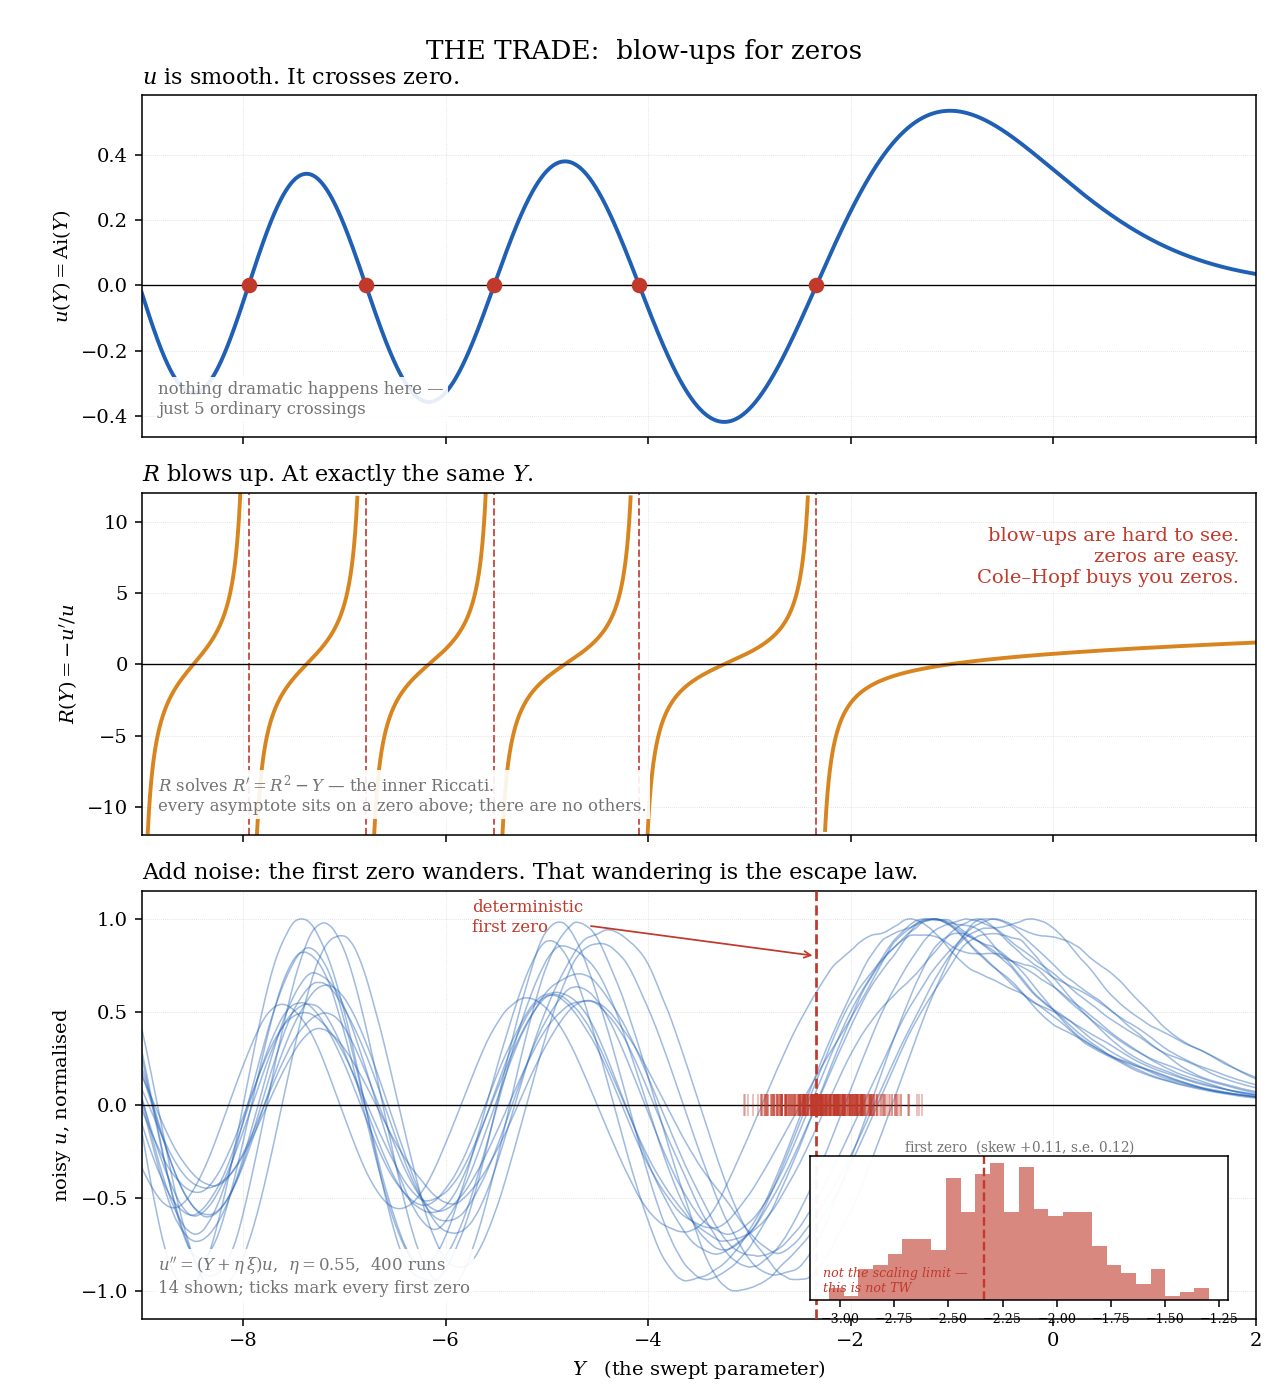
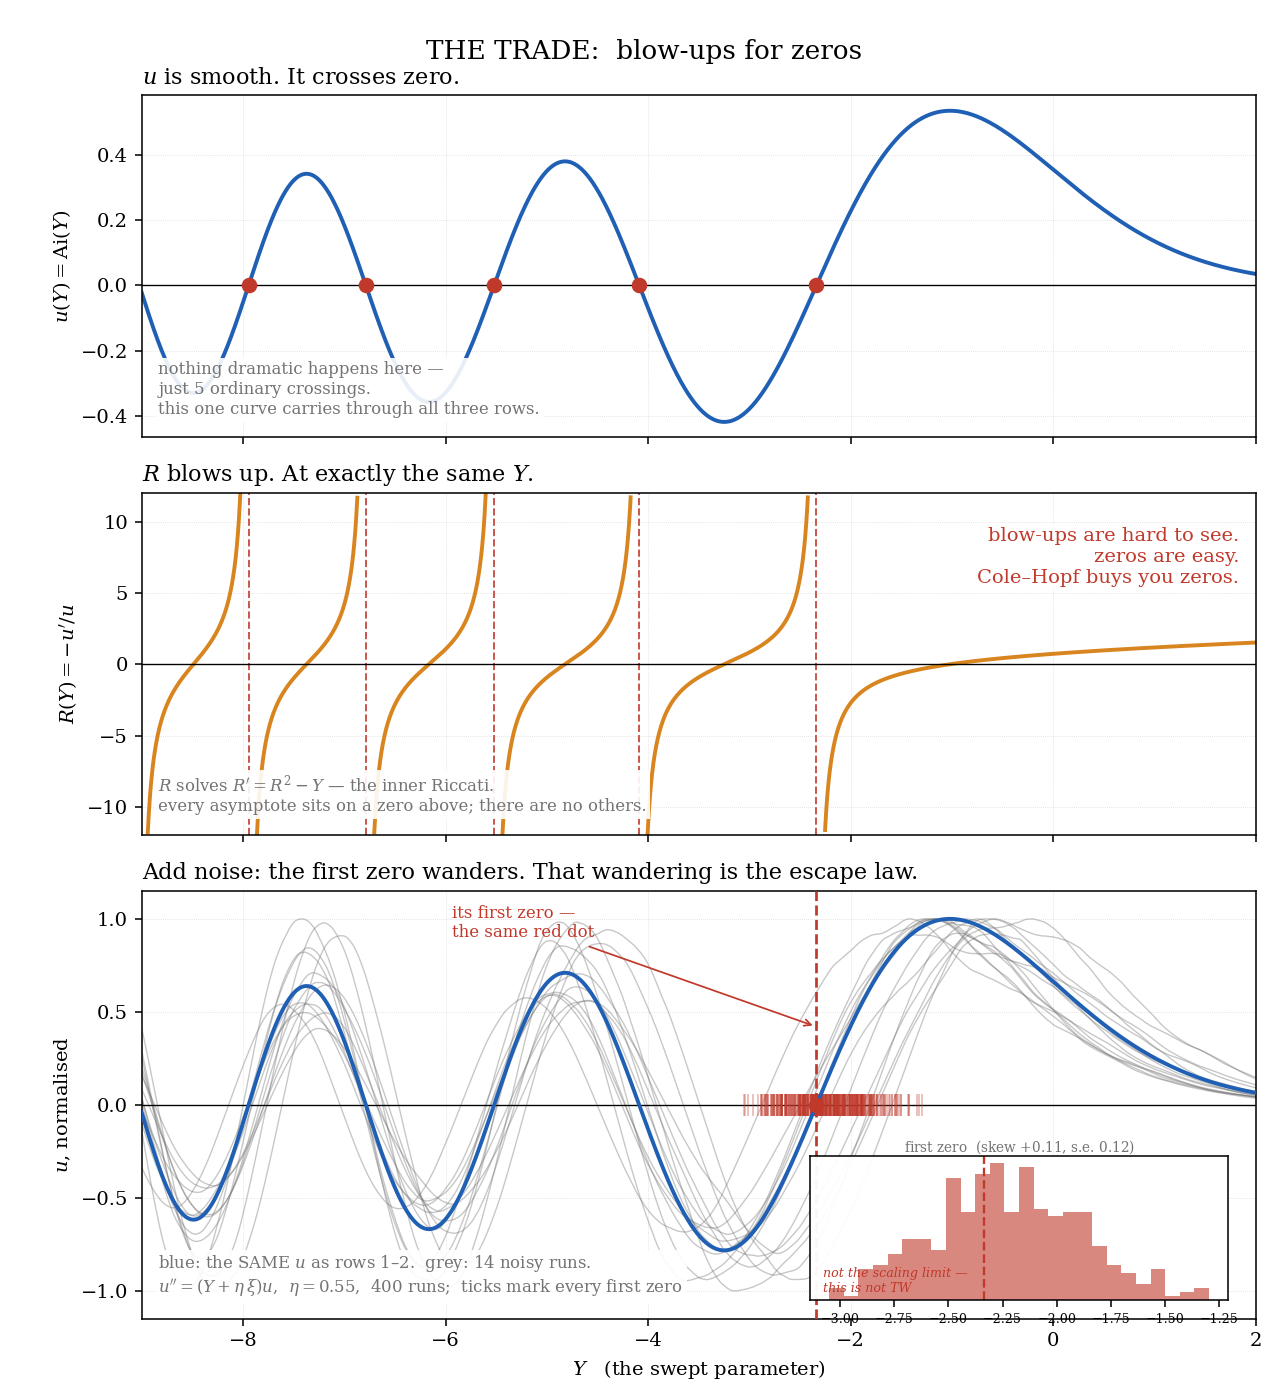
Twin panel: restore the one-invariant discipline in row 3
Row 3 drew fourteen noisy realisations in the same blue as rows 1-2, while the curve from rows
1-2 was not present at all.  So at exactly the point where the design depends on ONE object
persisting across representations, the panel introduced a fresh cast -- and reused the invariant's
colour for them, which is worse than merely omitting it.

The deterministic curve is now plotted in row 3 in the same colour and weight as row 1, carrying
the same red first-zero dot, with the ensemble demoted to grey scatter around it.  Colour now
encodes role rather than decoration: blue is the invariant, grey is scatter, red marks zeros.  Row
1 says so out loud -- "this one curve carries through all three rows" -- and row 3's caption names
the blue line as the same u.

This matters beyond one figure.  DESIGN_inner_chain.md diagnoses the whole inner chain as hard
precisely BECAUSE it is a sequence of coordinate changes with no persistent referent, and
prescribes one invariant redrawn in each chart as the fix.  A prototype that quietly violates its
own prescription would have propagated the violation through five more modules.  Caught at the
first artifact, which is what the gate is for.

Ledger entry 6 filed and marked resolved.

Changed region(s): [[0.0932, 0.645, 0.9938, 0.9214], [0.1242, 0.2457, 0.3727, 0.3071], [0.0311, 0.7371, 0.0621, 0.86]]

diff --git a/exposition/pilot_borel/twin_panel.py b/exposition/pilot_borel/twin_panel.py
@@ -56,7 +56,8 @@ a.axhline(0, color='k', lw=0.7)
 a.plot(zeros, np.zeros_like(zeros), 'o', color=RED, ms=7, zorder=5)
 a.set_ylabel(r'$u(Y)=\mathrm{Ai}(Y)$')
 a.set_title("$u$ is smooth. It crosses zero.", loc='left', fontsize=11.5)
-a.text(0.015, 0.07, f'nothing dramatic happens here —\njust {len(zeros)} ordinary crossings',
+a.text(0.015, 0.07, f'nothing dramatic happens here —\njust {len(zeros)} ordinary crossings.\n'
+                    'this one curve carries through all three rows.',
        transform=a.transAxes, fontsize=8.5, color=GREY, **BG)
 
 # ------------------------------------------------------------------ row 2: R blows up there
@@ -93,21 +94,27 @@ idx = (N - 2) - np.argmax(cross[:, ::-1], axis=1)  # rightmost crossing = first 
 first_zeros = Y[idx][has]
 
 un = u / np.max(np.abs(u), axis=1, keepdims=True)
-for j in range(14):
-    a.plot(Y, un[j], color=BLUE, lw=0.8, alpha=0.42)
+for j in range(14):                                 # the ensemble is SCATTER, hence grey
+    a.plot(Y, un[j], color=GREY, lw=0.7, alpha=0.40, zorder=2)
+# THE INVARIANT: the very same curve drawn in rows 1 and 2, in the same colour and weight.
+# Row 3 must not introduce a new object -- it shows this one trajectory with noise scattered
+# around it.  See DESIGN_inner_chain.md sec.2.
+a.plot(Y, Ai / np.max(np.abs(Ai)), color=BLUE, lw=2.0, zorder=6)
+a.plot(Z_FIRST, 0, 'o', color=RED, ms=7, zorder=7)
 a.axhline(0, color='k', lw=0.7)
 a.axvline(Z_FIRST, color=RED, lw=1.4, ls='--', zorder=4)
 a.plot(first_zeros, np.zeros_like(first_zeros), '|', color=RED, ms=11, mew=0.9, alpha=0.35,
        zorder=5)
 a.set_ylim(-1.15, 1.15); a.set_xlim(Y_LO, Y_HI)
 a.set_xlabel(r'$Y$   (the swept parameter)')
-a.set_ylabel('noisy $u$, normalised')
+a.set_ylabel('$u$, normalised')
 a.set_title('Add noise: the first zero wanders. That wandering is the escape law.',
             loc='left', fontsize=11.5)
-a.text(0.015, 0.06, rf"$u''=(Y+\eta\,\xi)u$,  $\eta={eta}$,  {has.sum()} runs"
-                    "\n14 shown; ticks mark every first zero",
+a.text(0.015, 0.06, "blue: the SAME $u$ as rows 1–2.  grey: 14 noisy runs.\n"
+                    rf"$u''=(Y+\eta\,\xi)u$,  $\eta={eta}$,  {has.sum()} runs;"
+                    "  ticks mark every first zero",
        transform=a.transAxes, fontsize=8.5, color=GREY, **BG)
-a.annotate('deterministic\nfirst zero', xy=(Z_FIRST, 0.80), xytext=(Z_FIRST - 3.4, 0.93),
+a.annotate('its first zero —\nthe same red dot', xy=(Z_FIRST, 0.42), xytext=(Z_FIRST - 3.6, 0.90),
            fontsize=8.5, color=RED, arrowprops=dict(arrowstyle='->', color=RED, lw=0.9))
 
 # histogram of the first zero -- placed clear of the tick row at y=0

diff --git a/exposition/DISTORTION_LEDGER.md b/exposition/DISTORTION_LEDGER.md
@@ -83,3 +83,11 @@ but weaker than it looks.
 5. **Only the recessive (Ai) solution is shown.** The general solution mixes in Bi, whose zeros
    sit elsewhere. The panel silently privileges one boundary condition — which is the right one
    for the escape problem, but the choice is invisible to the viewer.
+6. ~~**Row 3 broke the one-invariant discipline.**~~ **RESOLVED 2026-07-27.** Row 3 previously
+   drew 14 noisy realisations in the same blue as rows 1–2 while the curve from rows 1–2 was
+   absent — so the row introduced a fresh cast of objects at exactly the point where the design
+   depends on one object persisting. Now the deterministic curve is plotted in row 3 in the same
+   colour and weight as row 1, carrying the same red first-zero dot, and the ensemble is demoted
+   to grey scatter *around* it. Colour now encodes role: **blue = the invariant, grey = scatter,
+   red = zeros.** This is load-bearing for the whole α3–α4 chain — the fix was applied here
+   before the pattern could propagate. See `DESIGN_inner_chain.md` §2.
